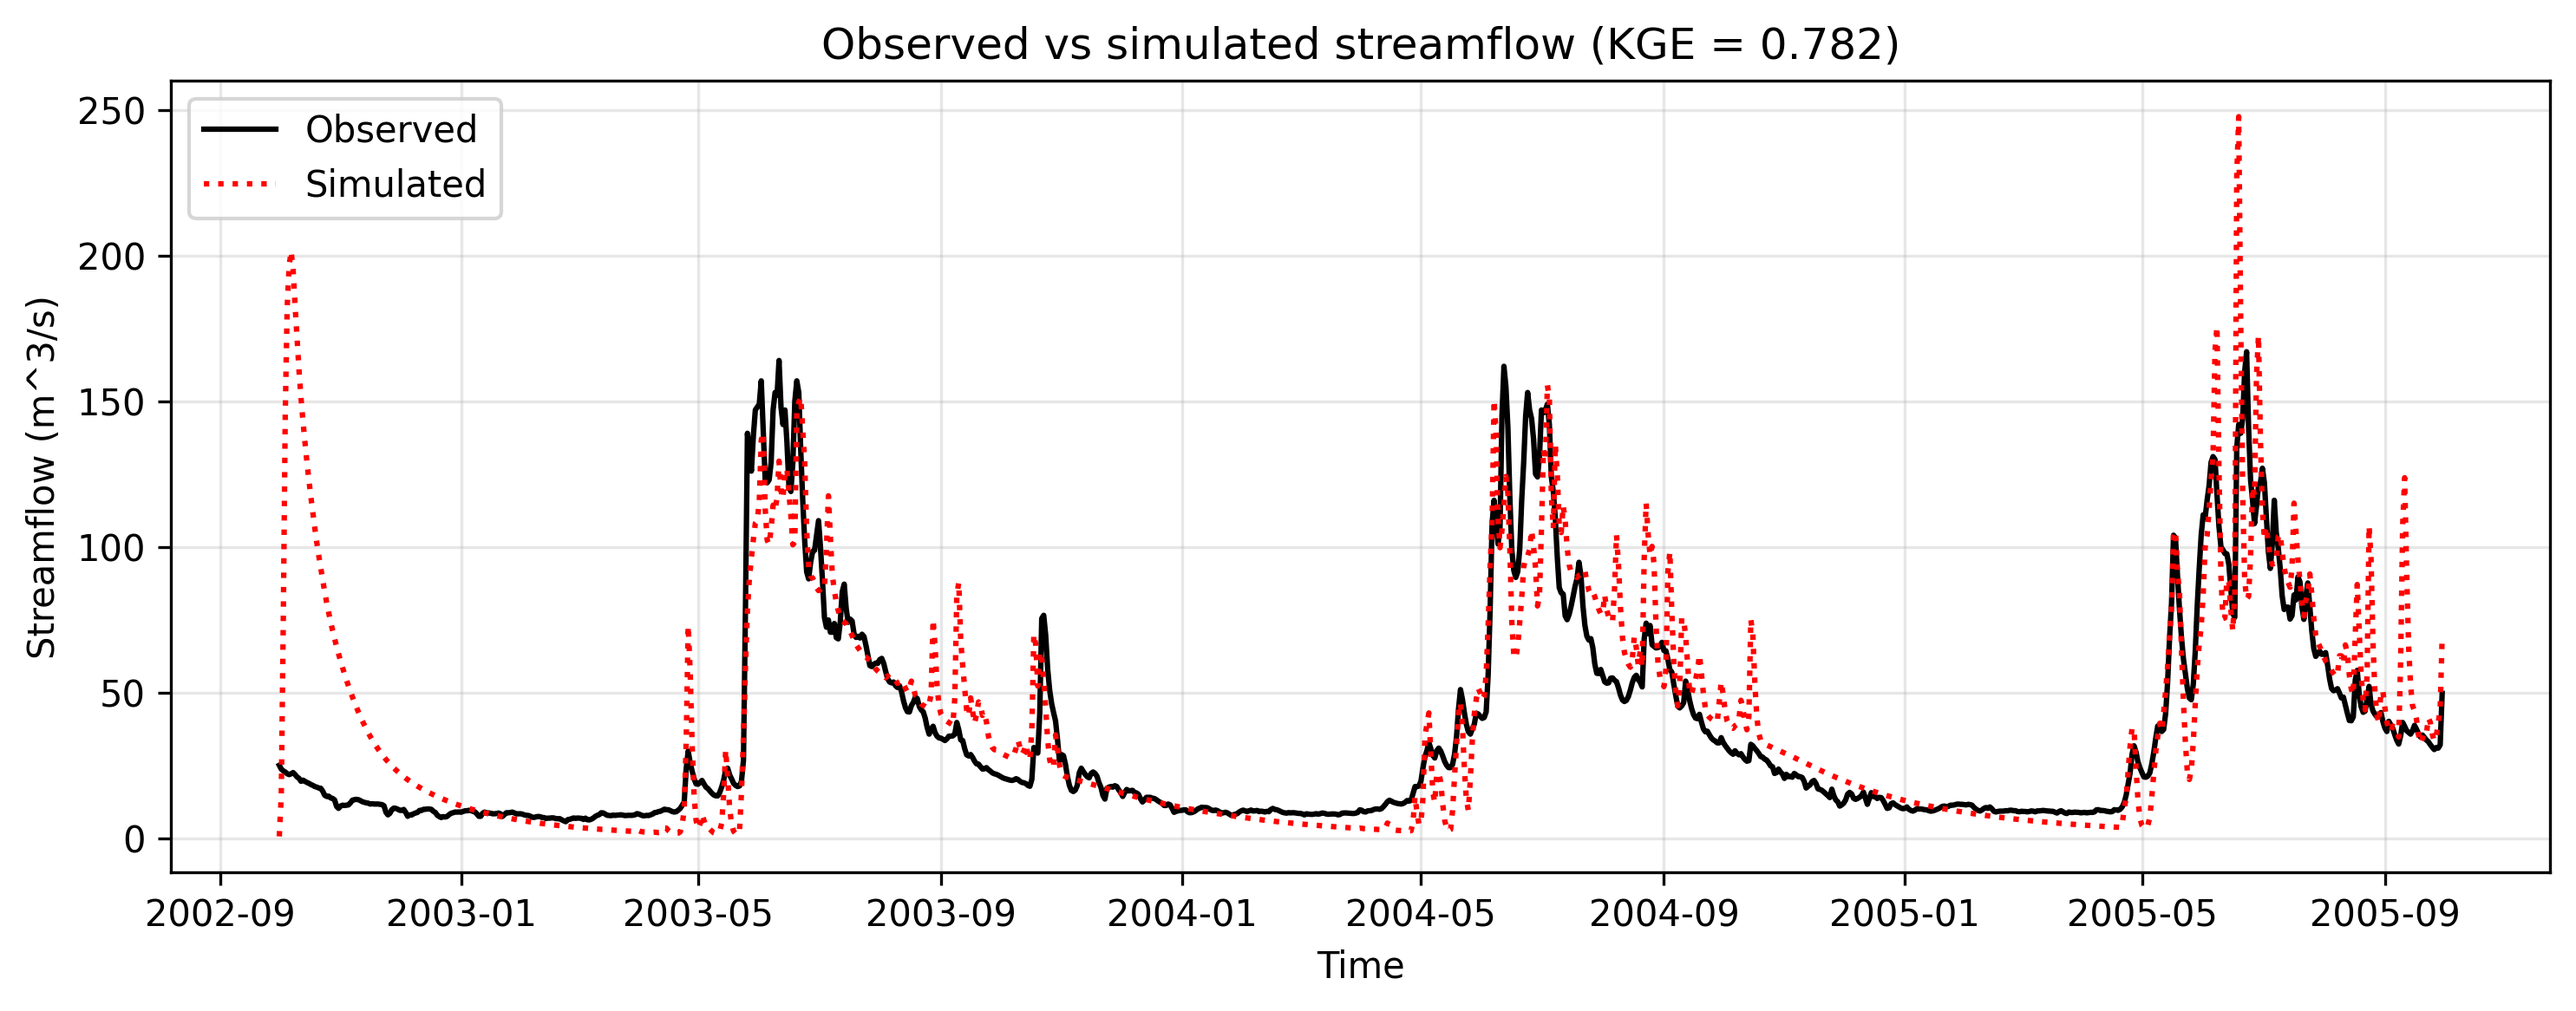
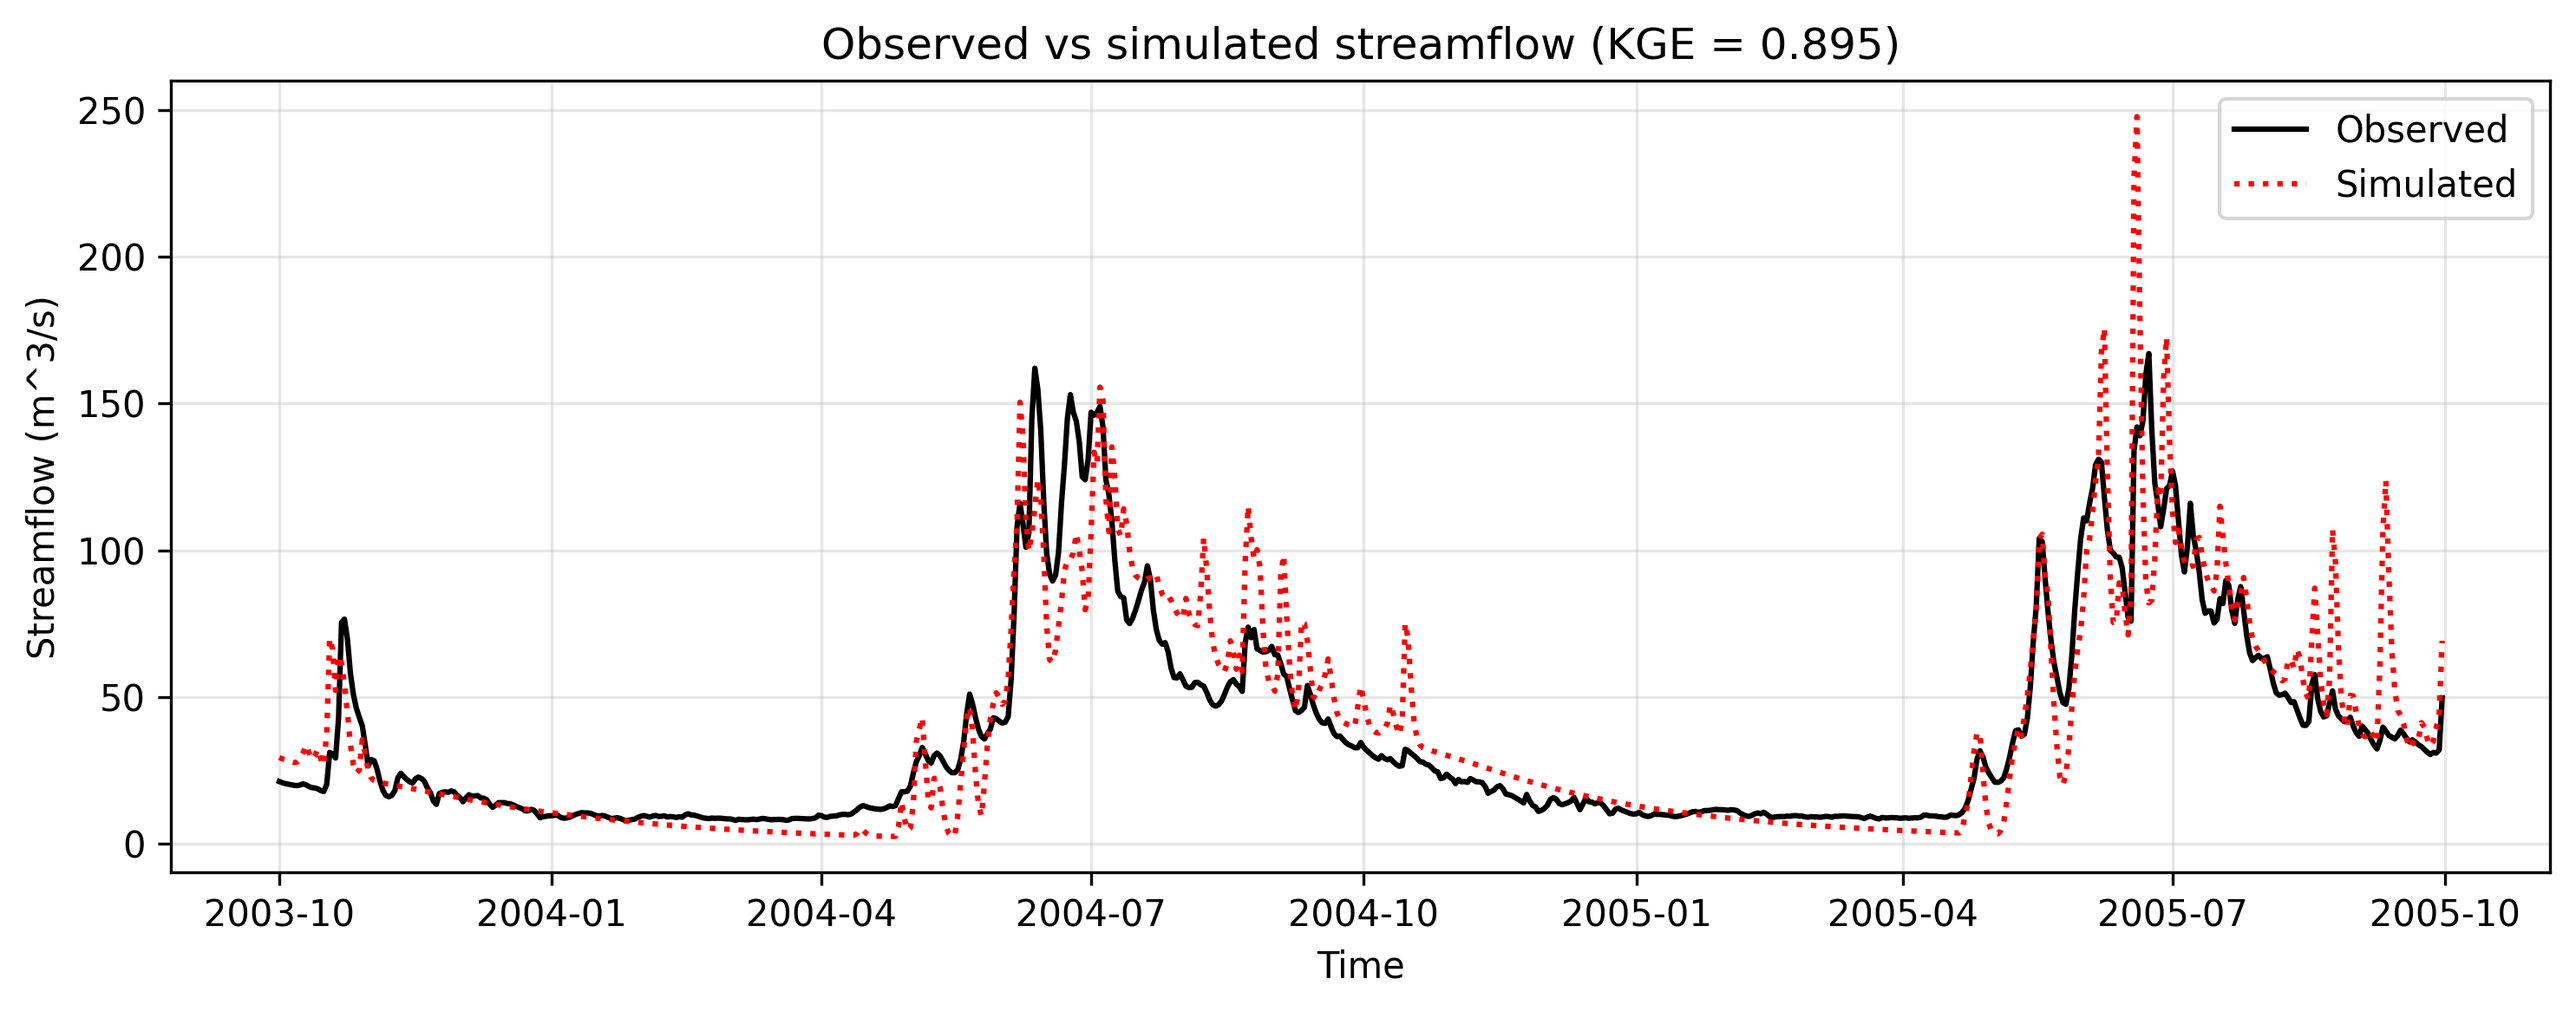
fix KGE calc to exclude startup

diff --git a/bow_at_banff_distributed_execution/scripts/calculate_run_diagnostics.py b/bow_at_banff_distributed_execution/scripts/calculate_run_diagnostics.py
@@ -57,7 +57,7 @@ def process_command_line() -> argparse.Namespace:
     )
     parser.add_argument(
         "--start-date",
-        default="2002-10-01",
+        default="2003-10-01",
         help="First date included in KGE calculation.",
     )
     parser.add_argument(

diff --git a/bow_at_banff_distributed_execution/README.md b/bow_at_banff_distributed_execution/README.md
@@ -2,7 +2,7 @@
 
 This directory contains a self-contained example for running the SUMMA hydrologic
 model, routing the resulting runoff through mizuRoute, and calculating streamflow
-diagnostics from `2002-10-01` through `2005-09-30`.
+diagnostics from `2003-10-01` through `2005-09-30` (i.e., excluding a one-year startup period).
 
 The example simulates the distributed hydrologic response of the Bow River basin
 in Alberta, Canada, upstream of the Banff streamflow gauge `CAN_05BB001`. The
@@ -15,6 +15,9 @@ The forcing contains precipitation rate, air temperature, air pressure, specific
 humidity, wind speed, incoming shortwave radiation, incoming longwave radiation,
 and HRU coordinates for the 52 HRUs. SUMMA writes daily mean precipitation, daily
 mean air temperature, and daily mean routed runoff for 1096 daily output times.
+The SUMMA file manager extends the run through `2005-10-01 23:00` so shifted
+daily routing labels cover the complete water year through `2005-09-30`. The
+first water year is retained as model startup and excluded from KGE diagnostics.
 
 **mizuRoute** routes the SUMMA daily `averageRoutedRunoff_mean` field through the
 52-segment river network in `model/settings/mizuRoute/topology.nc`. The routing
